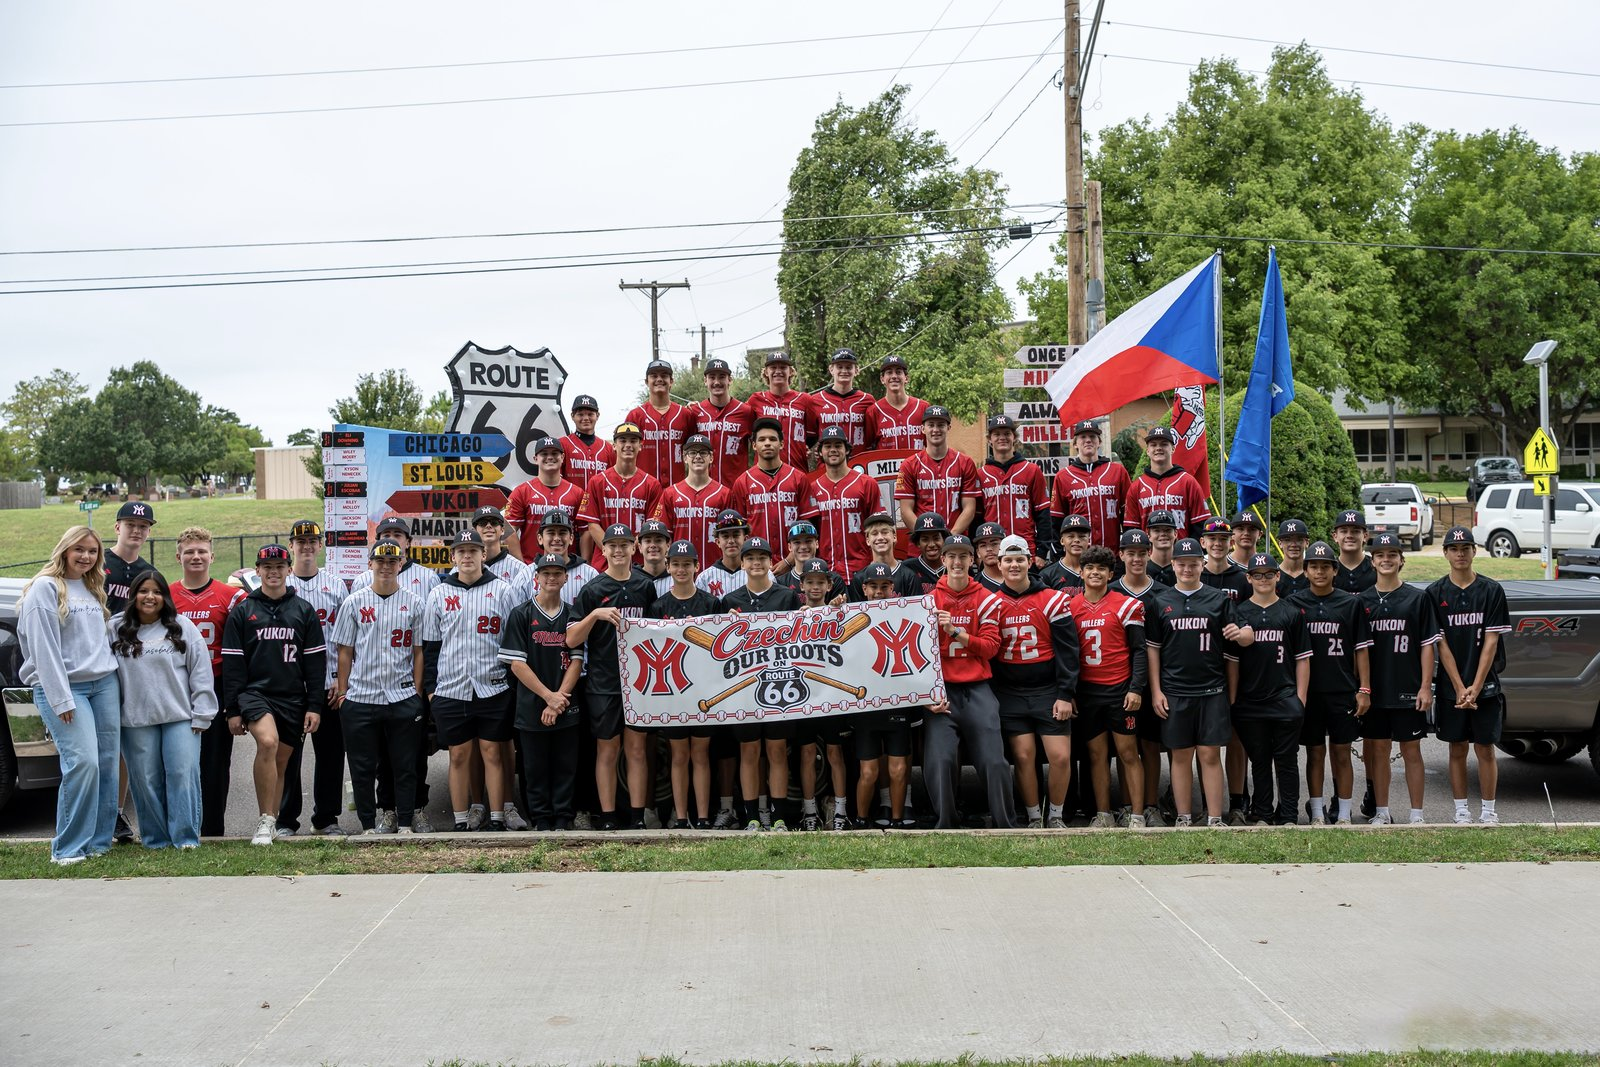
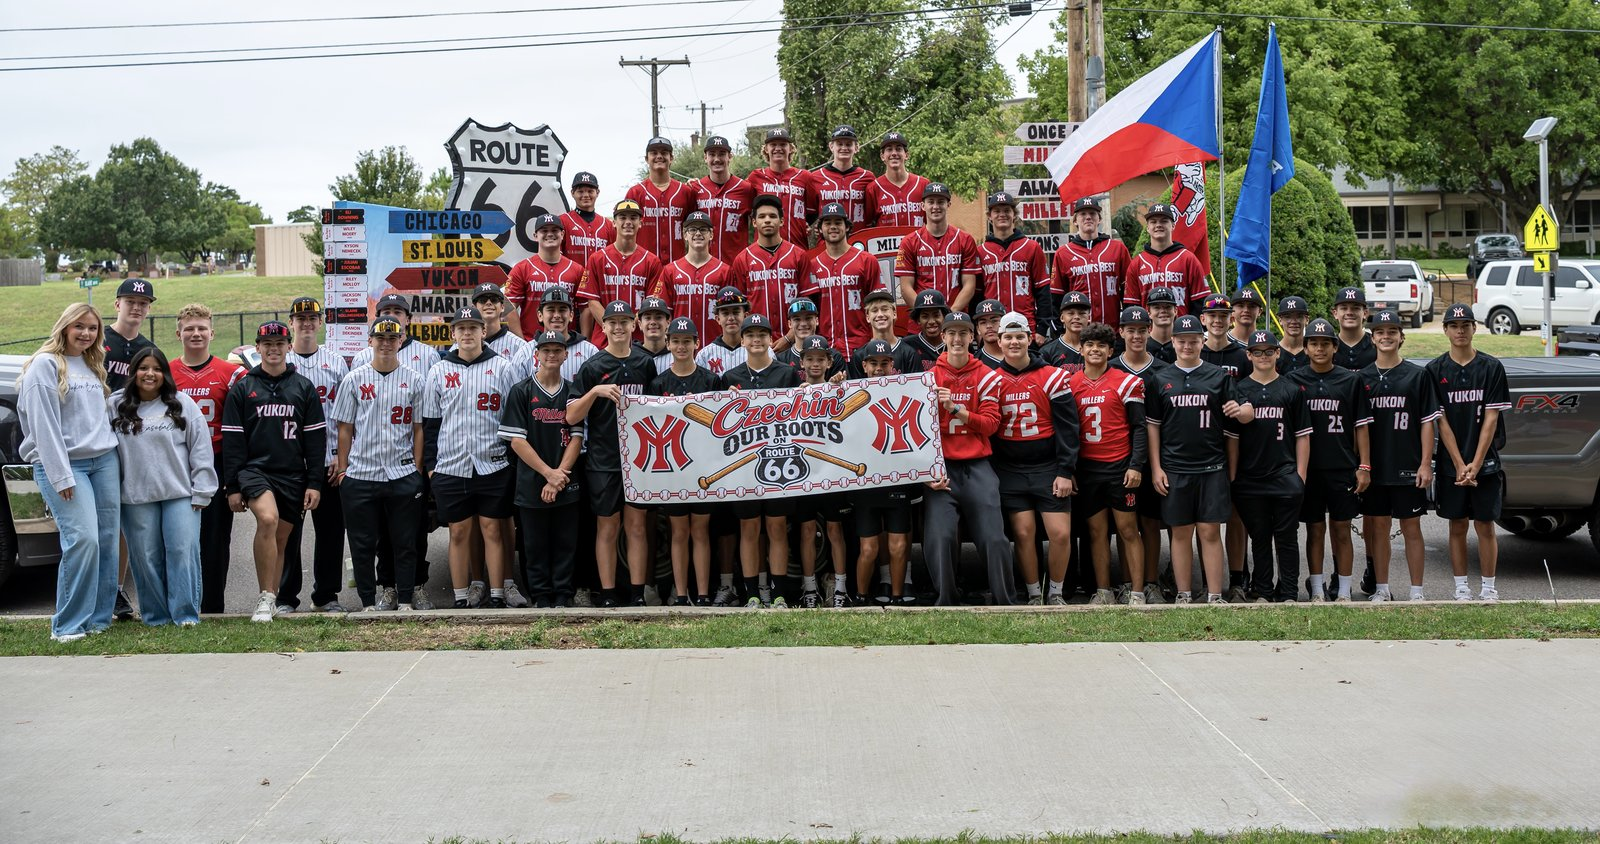
Raise the Czech Festival team photo to cut unused sky.
The homepage banner, article hero, and share crop keep the full group and sit higher in the frame.

diff --git a/src/lib/news-czech-festival.ts b/src/lib/news-czech-festival.ts
@@ -11,19 +11,19 @@ export const czechFestivalStory = {
     src: "/images/news/czech-festival-parade-2026.jpg",
     alt: "The Yukon Miller Baseball program together in front of the Czech Festival Parade float and Czechin’ Our Roots banner",
     width: 1600,
-    height: 1067,
-    focus: "50% 58%",
+    height: 844,
+    focus: "50% 48%",
     banner: {
-      src: "/images/news/czech-festival-parade-2026-banner.jpg",
+      src: "/images/news/czech-festival-parade-2026-banner2.jpg",
       width: 1600,
       height: 680,
-      focus: "50% 62%",
+      focus: "50% 48%",
     },
     card: {
       src: "/images/news/czech-festival-parade-2026-card.jpg",
       width: 800,
       height: 640,
-      focus: "50% 62%",
+      focus: "50% 48%",
     },
   },
   body: [
